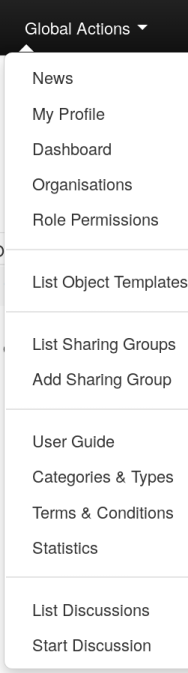
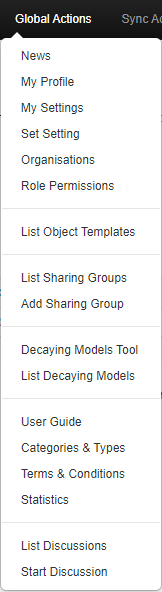
chg: [General layout] update screenshots and content to reflect MISP version 2.4.139

Changed region(s): [[0.0, 0.0, 1.0, 1.0], [0.1235, 0.6689, 0.9259, 0.8514]]

diff --git a/general-layout/README.md b/general-layout/README.md
@@ -2,150 +2,124 @@
 
 <!-- ToDo: Think about other default user roles that need to be considered and documented or at least hinted too. like: the role Read-only and user have these differences, if any -->
 
-## General Layout
+# General Layout
 
-### The top bar
+## The top bar
+This menu contains all of the main functions of the site as a series of dropdown menus. These menus contain all (from the current user's perspective) accessible functions sorted into several groups.
 
-#### Simple User
-![This is the main menu that will be accessible from all of the views. In some instances, some additional buttons that will appear on top of these when a view provides it.](figures/MenuBarUser.jpg)
+### Simple User
+![This is the main menu that will be accessible from all of the views. In some instances, some additional buttons that will appear on top of these when a view provides it.](figures/MenuBarUser.png)
 
-This menu contains all of the main functions of the site as a series of dropdown menus. These contains all (from the current simple user's perspective) accessible functions sorted into several groups.
-
-*   **Home button:** This button will return you to the start screen of the application, which is the event index page (more about this later).
-*   **Event Actions:** All the malware data entered into MISP is made up of an event object that is described by its connected attributes. The Event actions menu gives access to all the functionality that has to do with the creation, modification, deletion, publishing, searching and listing of events and attributes.
+*   **Home button:** This button will return you to the start screen of the application, which is the event index page or the page the user set as custom home page using the star in the top bar.
+*   **Event Actions:** All the malware data entered into MISP is made up of an event object that is described by its connected attributes. The Event actions menu gives access to all the functionality that relates to the creation, modification, deletion, publishing, searching and listing of events and attributes.
+*   **Dashboard:** Allows you to create a custom dashboard using widgets.
 *   **Galaxies:** Shortcut to the list of [MISP Galaxies](../galaxy/) on the MISP instance.
-*   **Input Filters:** Input filters alter what and how data can be entered into this instance. Apart from the basic validation of attribute entry by type, it is possible for the site administrators to define regular expression replacements and blocklists for certain values in addition to blocking certain values from being exportable. Users can view these replacement and blocklist rules here whilst administrator can alter them.
-*   **Global Actions:** This menu gives you access to information about MISP and this instance. You can view and edit your own profile, view the manual, read the news or the terms of use again, see a list of the active organizations on this instance and a histogram of their contributions by attribute type.
+*   **Input Filters:** Input filters alter what and how data can be entered into this instance. Apart from the basic validation of attribute entry by type, it is possible for the site administrators to define regular expression replacements and blocklists for certain values in addition to blocking certain values from being exportable. Users can view these replacement and blocklist rules here while an administrator can alter them.
+*   **Global Actions:** This menu gives you access to information about MISP and this instance. You can view and edit your own profile, view the manual, read the news or the terms of use again, see a list of the active organisations on this instance and a histogram of their contributions by attribute type.
 *   **MISP:** Simple link to your BASEURL
-*   **Steve:** Name (Auto generated from Mail address) of current logged in user
-*   **Envelope:** Link to User Dashboard where you can consult some of your notifications and changes since last visit. Like some of the proposals recieved for your organisation.
-*   **Log out:** The Log out button to end your session immediatly.
+*   **Name:** Name (Auto generated from Mail address) of current logged in user
+*   **Envelope:** Link to User Dashboard where you can consult some of your notifications and changes since last visit. Like some of the proposals received for your organisation.
+*   **Log out:** The Log out button to end your session immediately.
 
-#### Admin Menu Bar
-![Some additional buttons that will appear on top of these when a view provides it.](figures/MenuBarAdmin.jpg)
-*   **Home button:** idem as user.
-
-*   **Event Actions:** ibidem
-
-*   **Galaxies:** You can aditionally update the Galaxies.
-
-*   **Input Filters:** Ibidem
-
-*   **Global Actions:** Ibidem
-
-*   **Sync Actions:** With administrator access rights, shows a list of the connected instances and allows the initiation of a push and a pull (more about the synchronization mechanisms later).
-
+### Admin User
+![Some additional buttons that will appear on top of these when a view provides it.](figures/MenuBarAdmin.png)
+*   **Home button:** See description given earlier for user.
+*   **Event Actions:** See description given earlier for user.
+*   **Dashboard:** See description given earlier for user.
+*   **Galaxies:** You can additionally update the Galaxies.
+*   **Input Filters:** See description given earlier for user.
+*   **Global Actions:** See description given earlier for user.
+*   **Sync Actions:** With administrator access rights, shows a list of the connected instances and allows the initiation of a push and a pull. See [sharing and synchronisation](../sharing/).
 *   **Administration:** Administrators can add, edit or remove user accounts and user roles. Roles define the access rights to certain features such as publishing of events, usage of the REST interface or synchronization of any user belonging to the given role. Site administrators can also access a contact form, through which it is possible to reset the passwords of users, or to just get in touch with them via encrypted e-mails.
-
-*   **Audit:** If you have audit permissions, you can view the logs for your organization (or for site admins for the entire system) here or even search the logs if you are interested in something specific.
-
-*   **MISP:** ibidem
-
-*   **Admin:** ibidem
-
-*   **Envelope:** Link to User Dashboard where you can consult some of your notifications and changes since last visit. Like some of the proposals recieved for your organisation.
-
-*   **Log out:** The Log out button to end your session immediatly.
+*   **Audit:** If you have audit permissions, you can view the logs for your organisation (or for site admins for the entire system) here or even search the logs if you are interested in something specific.
+*   **MISP:** See description given earlier for user.
+*   **Admin:** User role.
+*   **Envelope:** See description given earlier for user.
+*   **Log out:** See description given earlier for user.
 
 
-### A list of the contents of each of the above drop-down menus
+### Content of each of the top menu bar drop-down menus
 
-##### Event actions
+#### Event actions
 
-![List Event Actions](figures/EventActions.jpg)
+![List Event Actions](figures/EventActions.png)
 *   **List Events:** Lists all the events in the system that are not private or belong to your organisation. You can add, modify, delete, publish or view individual events from this view.
-
 *   **Add Event:** Allows you to fill out an event creation form and create the event object, which you can start adding attributes.
-
 *   **List Attributes:** Lists all the attributes in the system that are not private or belong to your organisation. You can modify, delete or view each individual attribute from this view.
-
 *   **Search Attributes:** You can set search terms for a filtered attribute index view here.
-
 *   **REST client** MISP Online REST client where you can make calls directly to the API via a Web UI.
-
 *   **View Proposals:** Shows a list of all proposals that you are eligible to see.
-
 *   **Events with proposals:** Shows all of the events created by your organisation that has pending proposals.
-
 *   **List Tags:** List all the tags that have been created by users with tag creation rights on this instance.
-
+*   **List Tag Collections:** List all the tag collections that have been created by users with tag creation rights on this instance. Tag collections allow you to assign a collection of tags to an event or attribute in one action.
 *   **Add Tag:** Create a new tag.
-
 *   **List Taxonomies:** List all of the taxonomies installed on the MISP instance. This is also the place to activate the taxonomies as a Org Admin/Site Admin.
-
-*   **List Templates:** List all of the templates created by users with template creation rights on this instance.
-
+*   **List Templates:** List all of the event templates created by users with template creation rights on this instance.
 *   **Add Template:** Create a new template.
-
 *   **Export:** Export the data accessible to you in various formats.
-
 *   **Automation:** If you have authentication key access, you can view how to use your key to use the REST interface for automation here.
+#### Galaxies
+![Screenshot of top bar galaxies drop down menu](./figures/Galaxies.png)
+*   **List Galaxies:** Index of [MISP Galaxies](../galaxy/) on the MISP instance.
+*   **List Relationships:** Shows a list of galaxy cluster relationships.
 
-##### Input filters
-
+#### Input filters
 ![Input filters](figures/InputFilter.png)
 
 *   **Import Regexp:** You can view the Regular Expression rules, which modify the data that can be entered into the system. This can and should be used to help filter out personal information from automatic imports (such as removing the username from windows file paths), having unified representation for certain common values for easier correlation or simply standardizing certain input. It is also possible to block certain values from being inserted. As a site administrator or a user with regex permission, you can also edit these rules.
-
 *   **Signature Allowlist:** You can view the allowlist rules, which contains the values that are blocked from being used for exports and automation on this instance. Site administrators have access to editing this list.
-
 *  **List Warninglists:** MISP warninglists are lists of well-known indicators that can be associated to potential false positives, errors or mistakes. The warning lists are integrated in MISP to display an info/warning box at the event and attribute level.
+*  **List Noticelists:** MISP noticelists inform MISP users of the legal, privacy, policy or even technical implications of using specific attributes, categories or objects.
+*  **List Correlation Exclusions:** Allows for the exclusion of certain values from the correlation engine.
 
-*  **List Noticelists:** MISP noticelists are lists of #Todo: Double check description from repo!!!
-
-##### Global Actions
-
+#### Global Actions
 
 ![Global Actions](figures/GlobalActions.png)
 
 *   **News:** Read about the latest news regarding the MISP system
-
 *   **My Profile:** Manage your user account.
-
-*   **Dashboard:** allow you to see your Notifications of Proposals, Events with proposals and Delegation request. Your can see the last changes since your last visit, as Events updates and Events publications.
-
-*   **Organizations:** View the organizations having a presence on this instance, with some useful informations as contact's name.
-
+*   **My Settings:** View your user specific settings.
+*   **Set Setting:** Set user specific settings.
+*   **Organisations:** View the organisations having a presence on this instance.
 *   **Role Permissions:** You can view the role permissions here.
-
-*  **List Sharing Groups:** You can view the list of existing Sharing Groups who you or your organization have access.
-
-*  **Add Sharing Group:** You can create a sharing group.
-
+*   **List Sharing Groups:** You can view the list of existing Sharing Groups to which you or your organisation have access.
+*  **Add Sharing Group:** Create a sharing group.
+*  **Decaying Models Tool:** Allows you to create decaying models.
+*  **List Decaying Models:** Manage existing decaying models.
 *   **User Guide:** A link to this user guide.
-
-*   **Categories & Types:** Quick overview of Attribute Categories and Type. e.g: md5 -> Payload delivery, Artifacts dropped, Payload installation, External analysis
-
+*   **Categories & Types:** Quick overview of Attribute Categories and Types. e.g: md5 -> Payload delivery, Artifacts dropped, Payload installation, External analysis
 *   **Terms & Conditions:** General terms and conditions which can be configured in Administration -> Server Settings -> MISP Settings: MISP.terms_file . From the UI: "The filename of the terms and conditions file. Make sure that the file is located in your MISP/app/files/terms directory"
-
 *   **Statistics:** View a series of statistics about the users and the data on this instance.
-
 *   **List Discussions:** List threads of discussions created on the MISP instance by the organisations connected to this local community.
-
 *   **Start Discussion:** Create a new discussion thread.
 <!-- #ToDo: Make a reference to best practices on how to use this form of messaging. Sense/non-sense etc... -->
 
-##### Sync Actions
+#### Sync Actions
 
 ![Sync Actions](figures/SyncActions.png)
-
+*   **Import Server Settings:** Import sync server configuration.
 *   **List Servers:** Connect your MISP instance to other instances, or view and modify the currently established connections.
-
 <!-- Include example of error message/stack trace differences. -->
+*  **List Feeds:** Follow the RSS feeds of other organisation or CERTs worldwide. 
+*  **Search Feed Caches:** Search for values potentially contained in the cached feeds and servers. 
+*  **List SightingDB Connections:** Allows you to manage existing SightingDB connections. SightingDB is an alternate sighting database that MISP interconnects with. 
+*  **Add SightingDB Connection:** Create a SightingDB connection.
+*  **List Communities:** A list of communities that chose to advertise their existence to the general MISP user-base.
+*  **Cerebrates:** Connect your MISP to one or several Cerebrate instances to act as lookup directories for organisation and sharing group information.
+*  **Event ID translator:** Allows to translate a local ID into the corresponding event ID on sync servers configured.
 
-*  **List Feeds:** Follow the RSS feeds of other organization or CERTs worldwide.  
-
-##### Administration
+#### Administration
 
 ![Administration](figures/Administration.png)
 
 *   **List Users:** View, modify or delete the currently registered users.
-
+*   **List Auth Keys:** Shows a list of the auth keys on this instance (auth keys from the advanced auth key system) with their comments.
+*   **List User Setting:** Lists user setting for the users on this instance.
+*   **Set User Setting:** Set user specific settings for the users on this instance.
 *   **Add User:** Create an account for a new user for your organisation. Site administrators can create users for any organisation.
-
 *  **Contact Users:** You can use this view to send messages to your current or future users or send them a temporary password.
 
-When adding a new user to the system, or when you want to manually reset the password for a user, just use the "Send temporary password" setting.
+When adding a new user to the system, or when you want to manually reset the password for a user, just use the "Send credentials automatically" setting.
 
 After selecting the action, choose who the target of the e-mails should be (all users, a single user or a user not yet in the system).
 
@@ -153,39 +127,29 @@ You can then specify (if eligible) what the e-mail address of the target is (for
 
 In the case of a new user, you can specify the future user's GnuPG key, to send his/her new key in an encrypted e-mail.
 
-The system will automatically generate a message for you, but it is also possible to write a custom message if you tick the check-box, but don't worry about assigning a temporary password manually, the system will do that for you, right after your custom message.
+The system will automatically generate a message for you, but it is also possible to write a custom message if you tick the check-box, don't worry about assigning a temporary password manually. The system will do that for you, it will be in the mail after your custom message.
 
-*  **List Organisations:** View the organizations having a presence on this instance, with some useful informations.
-
-*  **Add Organisation:**
-
+*  **User Registrations:** You can find messages sent to this instance in this view.
+*  **List Organisations:** View the organisations having a presence on this instance, with some useful information.
+*  **Add Organisations:**
 *   **List Roles:** List, modify or delete currently existing roles.
-
 *   **Add Role:** Create a new role group for the users of this instance, controlling their privileges to create, modify, delete and to publish events and to access certain features such as the logs or automation.
-
 *   **Server Settings & Maintenance:** Various tools, upgrade scripts that can help a site-admin run the instance & Set up and diagnose your MISP installation.
-
 *   **Jobs:** View the background jobs and their progress
-
 *   **Scheduled Tasks:** Schedule the pre-defined tasks for your instance (this currently includes export caching, server pull and server push).
-
-*   **Blocklist Event:** Link to form where you can quickly add an event to a blocklist with it's UUID.
-<!-- #Todo: Double check if blocklists and their impacts are explained at all -->
-
+*   **Event Block Rules:** Set event block rules. Event block rules allow you to add a simple tag filter to block events from being added or synced. See [administration](../administration/).
+*   **Blocklist Event:** Link to form where you can quickly add an event to a blocklist with it's UUID. For more information, see [administration](../administration/).
 *   **Manage Event Blocklists:** List of blocklisted events on MISP instance.
-
-*   **blocklist Organisation:** Link to for where you can quickly add an organisation to a blocklist with it's UUID.
-
-<!-- #Todo: Double check if blocklists and their impacts are explained at all -->
-
+*   **blocklist Organisation:** Link to for where you can quickly add an organisation to a blocklist with it's UUID. For more information, see [administration](../administration/).
 *   **Manage Org blocklists:** List of blocklisted Organisations on this instance.
 
-##### Audit
+#### Audit
 
 ![Audit](figures/Audit.png)
 *   **List Logs:** View the logs of the instance.
 *   **Search Logs:** Search the logs by various attributes.
 
-### The left bar
+## The left bar
+The menu items in this menu bar are different depending on the current page you are on. The blue highlight shows you what page you are on.
 
-This bar changes based on each page-group. The blue selection shows you what page you are on.
+![Screenshot of left menu bar](./figures/LeftMenuBar.png)
